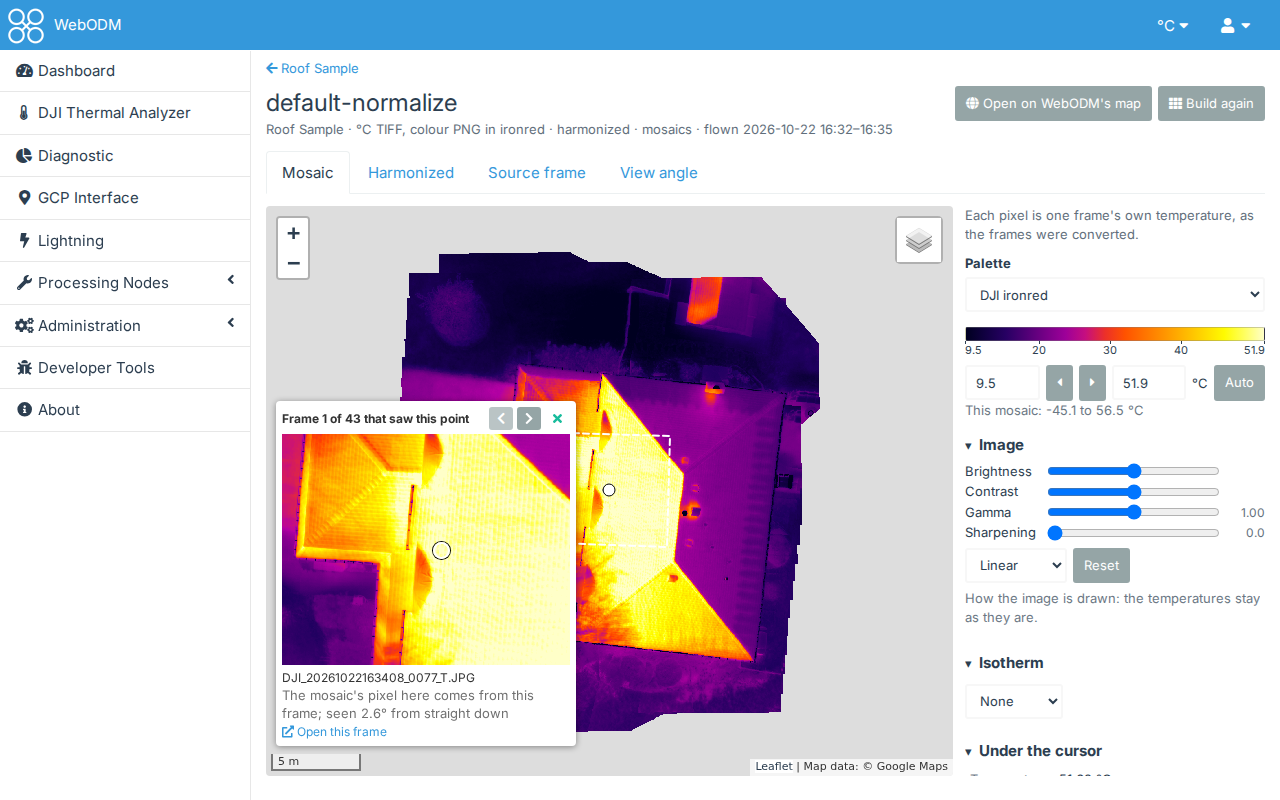
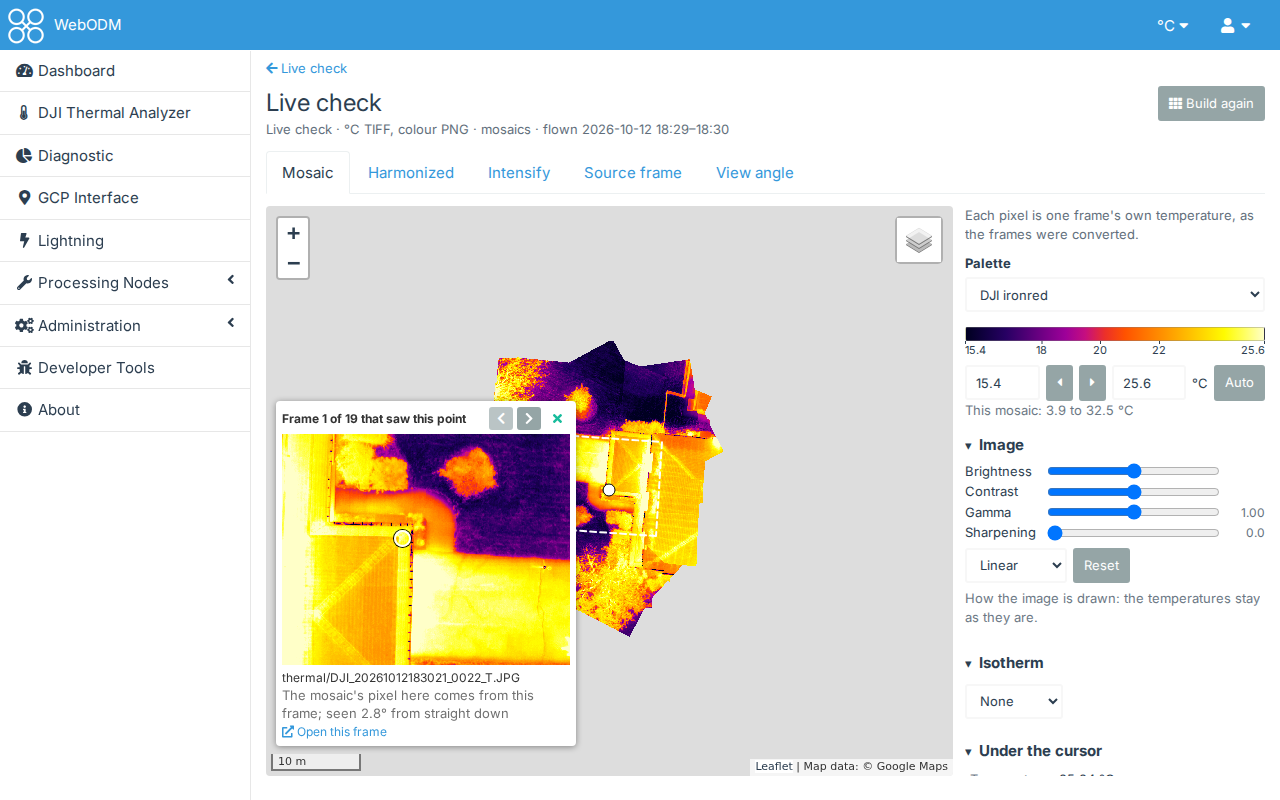
R4: Intensify documented, the mosaic viewer's screenshots retaken; plan: R4 built, R5 the Inspector's colour maps on 4.0.0
The README, the worksets quickstart, measurement.md (what normalize and harmonize change, and finding small
differences with Intensify), palettes.md, api.md and the developers' guide; mosaic-intensify.png is new.
R5: WebODM 4.0.0's tiler refuses hot, rainbow and gray_r, which the Inspector sends it.

diff --git a/dev/screenshots.js b/dev/screenshots.js
@@ -184,6 +184,15 @@ const SHOTS = {
         await hoverMap(p);
         return p;
     },
+    "mosaic-intensify": async (p, env) => {
+        // Built with the mosaics since Intensify exists: a workset whose mosaics were built before has no such tab
+        await openViewer(p, env);
+        await p.click('#ta-viewer-tabs a[data-tab="intensify"]');
+        await p.waitForSelector("#ta-viewer-map .leaflet-tile-loaded", {timeout: 60000});
+        await p.waitForTimeout(2000);
+        await hoverMap(p);
+        return p;
+    },
     "mosaic-frames": async (p, env) => {
         await openViewer(p, env);
         const box = await p.locator("#ta-viewer-map").boundingBox();

diff --git a/upcoming-changes.md b/upcoming-changes.md
@@ -3,7 +3,22 @@
 ## Phases (current and upcoming)
 
 **Up next**
-- **R4. Intensify: a mosaic tab of each pixel's difference from its surroundings** (the user, 2026-11-08, in the
+- **R5. Bug: on WebODM 4.0.0 the Thermal Inspector can't draw a thermal orthophoto in hot, rainbow or gray_r**
+  (found 2026-11-08 while building R4, in 1.1.0): with no Image adjustments, `inspector.js` `withPalette` sends a
+  WebODM colour map to WebODM's own tiles (`.../orthophoto/tiles/...?color_map=hot`), and 4.0.0's tiler no longer has
+  those three (the plugin carries them in `colormaps.json` for its own tiles only): WebODM answers 400 "Not a valid
+  color_map value" and the map shows nothing. 3.3.2 has them. Proposed fix: those three drawn by the plugin's
+  Inspector tiles, as DJI's palettes are (the `display` API names the colour maps WebODM's tiler lacks); a test, and
+  a check on both stacks.
+
+**Later**
+- **Kelvin on screen** (the user, 2026-11-07: dropped from the header unit, "we may decide to add it back later if
+  webodm adds more traditional Kelvin support"): only once WebODM's units offer it.
+- **Server-folder datasets** for administrators (photos read in place on the server), in the Analyzer; replaces
+  the earlier "Folder conversion" item (below).
+
+**Done**
+- **R4. Intensify: a mosaic tab of each pixel's difference from its surroundings** (built 2026-11-08; the user, 2026-11-08, in the
   session): "would it make sense to offer an \"Intensify\" option that actually makes temperature variances more
   distinct across the images? Example: I have a mosaic of a roof made from 10 images. Around pipe seams there's a
   temperature delta variance that's roughly 2-3 degrees cooler than the surrounding roof due to air seepage", then
@@ -31,14 +46,25 @@
   value); mosaics built before (proposed: the tab appears after "Build mosaics again", nothing built on its own).
   Decided (the user, 2026-11-08): the neighbourhood fixed at 2 m; a blue-white-red palette added, the tab's default
   (offered on the other tabs too); mosaics built before get the tab after "Build mosaics again".
+  Built, `r4-intensify`: `intensify.py` (`differences`: the medians of windows 2 m wide every metre, interpolated
+  between, numpy only; a 5000x5000 mosaic in about 2 s); `mosaics.intensified` writes `viewer/intensify.tif` from the
+  harmonized mosaic in the build, kept as `kinds.intensify` (`of: harmonized`, `size_m`; not in `KINDS`: not a
+  download, nor in the workset's Mosaics table); `TABS` and `DIFFERENCE_TABS`, `in_unit` (equalize, isotherm,
+  histogram), `point` gives `difference` and the harmonized `temperature`, `frame_values` the frame's own differences
+  (at its ground resolution, `height_m / focal_px`): that is the frames window over the map; the frame page itself
+  shows temperatures and doesn't offer the palette. The palette `bwr` in `colormaps.json`, listed with `saved: false`
+  (not a preference: `display_palettes` refuses it, so the viewer doesn't send it), not in the Thermal Inspector's
+  list (`palette_keys`). `viewer.js`: `isDifference`, `inUnit`, values shown and typed with `convertDelta`, the range
+  symmetric about 0, the report the harmonized mosaic's. Tests: Jest 301 (the tab, its unit, palette, isotherm,
+  readout), Django 213 on 4.0.0 and 3.3.2 (1 skipped; the synthetic roof, and the tab on a flight's mosaics). Live on
+  :8002 with 40 frames of the M4T flight (its own project, removed after): the tab after Harmonized, its range
+  -2.7 to 2.7 °C, the readout "+2.13 °C from its surroundings" with the temperature, the frames window, an isotherm
+  below -1. Docs: the README, `quickstart-worksets.md`, `measurement.md` (what normalize and harmonize change, and
+  "Finding small differences: Intensify", with `mosaic-intensify.png`), `palettes.md`, `api.md`, `developing.md`; the
+  mosaic viewer's screenshots retaken (from the live check's dataset: the user's worksets have mosaics built
+  before).
 
-**Later**
-- **Kelvin on screen** (the user, 2026-11-07: dropped from the header unit, "we may decide to add it back later if
-  webodm adds more traditional Kelvin support"): only once WebODM's units offer it.
-- **Server-folder datasets** for administrators (photos read in place on the server), in the Analyzer; replaces
-  the earlier "Folder conversion" item (below).
 
-**Done**
 - **R3. A link to WebODM's community Discord in the README** (built 2026-11-08; the user, 2026-11-08, from `new.md`): "Add a link
   near the bottom of the README to Join the WebODM Community Discord: https://discord.gg/hYDk9f28J". Builds on the
   README's end (Developing, Thanks, License). Proposed: a short section of its own, "Community", between Developing

diff --git a/docs/api.md b/docs/api.md
@@ -40,13 +40,13 @@ workset's id (12 hexadecimal characters).
 | POST | `.../conversions/<workset>/parent` | Sends the workset's TIFFs to the dataset's own task. |
 | GET, POST | `.../conversions/<workset>/mosaics` | The mosaics as the viewer shows them; builds them. A workset lists the mosaics built in its `mosaics` (`kind`, `frames`, `oblique`, `unusable`, `width`, `height`, `gsd_m`, `min` and `max` in `unit`, `normalization`, dji-thermal-cli's `report`, `preview`, and `files` with each one's `name` and `size`). |
 | GET | `.../mosaics/<kind>/preview` | A mosaic's preview as a small PNG (`as_converted` or `harmonized`; `?size=large` for the detail pane). |
-| GET | `.../mosaics/<tab>/tiles/<z>/<x>/<y>.png` | A map tile of a mosaic tab, over `rescale=min,max` in `color_map`, drawn with `gamma` (0.2 to 5), `sharpen` (0 to 5), and on temperatures `equalize=1` and `isotherm` (`above,T`, `below,T` or `between,A,B`, in the mosaic's unit: those pixels in the palette, the rest grey); the same for a frame's picture. |
+| GET | `.../mosaics/<tab>/tiles/<z>/<x>/<y>.png` | A map tile of a mosaic tab, over `rescale=min,max` in `color_map`, drawn with `gamma` (0.2 to 5), `sharpen` (0 to 5), and on temperatures (and `intensify`'s differences) `equalize=1` and `isotherm` (`above,T`, `below,T` or `between,A,B`, in the mosaic's unit: those pixels in the palette, the rest grey); the same for a frame's picture. |
 | POST | `.../mosaics/<tab>/region` | A temperature tab's statistics inside a GeoJSON polygon or along a line, in °C, as the Thermal Inspector's `region`; a line's profile also names each sample's source frame. |
 | GET | `.../mosaics/<tab>/isotherm/<z>/<x>/<y>.png?low=&high=&color=` | A temperature tab's isotherm tile, as the Thermal Inspector's `isotherm` (limits in °C). |
 | GET | `.../mosaics/<tab>/values/<z>/<x>/<y>.png` | The values (in the tab's unit) a tile is drawn from, for the browser to colour: a PNG whose red and green hold a 16-bit code (the value is `X-Values-Offset` + code × `X-Values-Step`), blue the source frames' seams (1 and 2), alpha where there are values, with `X-Values-Margin` more pixels on each side and the sharpening's sigma in `X-Sharpen-Sigma`. |
-| GET | `.../mosaics/<tab>/histogram` | A temperature tab's histogram (`counts`, `edges`), for the browser's equalization. |
+| GET | `.../mosaics/<tab>/histogram` | A temperature tab's histogram (`counts`, `edges`; `intensify`'s of its differences), for the browser's equalization. |
 | GET | `.../mosaics/<tab>/curve?rescale=&gamma=&equalize=` | How the tab's images are drawn, for the colour scale: the palette's share at 65 values evenly across the range. |
-| GET | `.../mosaics/<tab>/point?lon=&lat=` | The temperature, frame, frame pixel (the frame's column and row) and view angle at a point. |
+| GET | `.../mosaics/<tab>/point?lon=&lat=` | The temperature, frame, frame pixel (the frame's column and row) and view angle at a point; on `intensify`, also `difference` (the pixel's difference from its surroundings), with `temperature` the harmonized mosaic's. |
 | GET | `.../mosaics/<tab>/frames?lon=&lat=`, `.../frames/<index>.png` | The frames that saw a point; one frame's picture. |
 | GET | `.../conversions/<workset>/frames` | The frame page's list: the dataset's thermal frames (`path`, `time`, `pitch`, `converted`, `mosaic`: its place among the mosaics' frames or null), the workset's unit, whether it normalized or harmonized, the mosaics' pitch limit, the palettes and your default. |
 | GET | `.../conversions/<workset>/frame?frame=` | A frame measured as the workset converted it, or with `distance`, `humidity`, `emissivity`, `reflected_temp`, `ambient_temp` changed (temperatures in the workset's unit): its size, what the SDK measured with (`params`, °C), what the camera recorded, the distance's source, notes, the normalization's offset and its range, mean and histogram. |

diff --git a/README.md b/README.md
@@ -255,19 +255,28 @@ workset has done that while converting, so its mosaics are placed as Harmonize a
 (the mosaic's report says so), unless frames were removed from the workset since. **View mosaics** shows them on a map
 over WebODM's base layers:
 
-- a tab for each mosaic (**Mosaic**, as converted, and **Harmonized**), **Source frame** (the mosaic with a black and
-  white line where one frame meets the next) and **View angle** (the angle each pixel was seen at);
+- a tab for each mosaic (**Mosaic**, as converted, and **Harmonized**), **Intensify** (below), **Source frame** (the
+  mosaic with a black and white line where one frame meets the next) and **View angle** (the angle each pixel was seen
+  at);
+- **Intensify**: the harmonized mosaic, each pixel less the typical temperature around it (the median over about 2 m).
+  Slopes, the sun's side and gradients across a roof drop to about 0, so a narrow cooler or warmer feature (a seam
+  letting air in, a leak) stands out wherever it is, in its own palette, blue-white-red (blue below its
+  surroundings, red above), over a range centred on 0. Its numbers are differences, not temperatures, in your unit:
+  the readout gives the difference and the harmonized temperature, its isotherm takes differences (e.g. below -1.5),
+  and its frames are the frames' own differences. Anything 2 m wide or more fades out. The temperatures are not
+  changed: it is a view, not in the downloads nor the Thermal Inspector. Mosaics built before the plugin had it show
+  it once built again (**Build again**);
 - the palette (the usual ones and the DJI palettes of the images; opening in your preferred one, if they hold it) and the
   range, changed live, with the colour scale (its ends marked with the range's own values), **◀** and **▶** between
   its two fields (narrowing or widening it by a tenth, about its middle) and **Auto** (the 2nd to 98th percentile);
 - how the image is drawn (**Image**): **Brightness** and **Contrast** (which move and narrow the range), **Gamma**,
   **Sharpening** (an unsharp mask), **Linear** or **Equalized** (the colours spread over the temperatures the whole
-  mosaic has most of; temperatures only) and **Reset**, drawn into the tiles and the frames' pictures, with the colour
+  mosaic has most of; temperatures and Intensify's differences only) and **Reset**, drawn into the tiles and the frames' pictures, with the colour
   scale drawn to match; the temperatures stay as they are. The map follows the sliders, the range and the isotherm as
   they change, with no waiting: the browser colours each tile from its temperatures, which the server sends once (the
   frames' pictures are drawn again once a slider is let go of). The temperature tabs share them, and each visit starts
   without them;
-- an **Isotherm** on the temperature tabs (above, below or between temperatures): its pixels keep the palette and the
+- an **Isotherm** on the temperature tabs and Intensify (above, below or between temperatures, or differences): its pixels keep the palette and the
   rest turns grey, on the map and in the frames' pictures;
 - the temperature, frame, frame pixel and view angle under the cursor;
 - a click on the map keeps those values at that point, marked, until **Follow the cursor** (or Esc), and opens a

diff --git a/docs/developing.md b/docs/developing.md
@@ -27,6 +27,7 @@ Everything the plugin ships is in `dji-thermal/` (the plugin's id, and the relea
 | `analysis.py` | The analysis job: dji-thermal-cli's check and WebODM plan over a dataset's photos. |
 | `conversions.py` | Worksets: their settings (checked in `parse_settings`), the conversion job (`convert`), the outputs' names, the palettes (`palettes()`, `COLORMAPS`), and each user's saved defaults and display preferences. |
 | `mosaics.py` | A workset's mosaics: the build job (`make`), and what the mosaic viewer reads (tiles, values, palettes). |
+| `intensify.py` | Each pixel's difference from its surroundings (the median over about 2 m), for the mosaic viewer's Intensify tab. |
 | `colouring.py` | How tiles and frames are drawn: range, tone curve, equalization, sharpening, isotherm. |
 | `frames.py`, `frames_api.py` | The frame page: one frame as the workset measured it, or measured again with other values. |
 | `conversion_tasks.py` | A WebODM task made from a workset's temperature TIFFs. |
@@ -160,7 +161,9 @@ Each recipe lists every place a change touches. If you find another one, add it 
 ### A palette
 
 Palettes are DJI's (from dji-thermal-cli) and WebODM's colour maps (from WebODM's tiler). Every palette list (the
-Preferences dialog, the mosaic viewer, the frame page and the Thermal Inspector) is built from these two.
+Preferences dialog, the mosaic viewer, the frame page and the Thermal Inspector) is built from these two. The mosaic
+viewer also has its own palette for differences, `bwr` (`DIFFERENCE_PALETTE` in `mosaics.py`, its colours in
+`colormaps.json`), listed with `saved: false` because it can't be a user's palette.
 
 - **One of WebODM's colour maps**: add its name to `COLORMAPS` in `conversions.py`. `mosaics.palette_list` and
   `palette_keys` give it to the viewers, and the `display` API gives it to the Preferences dialog and the Inspector.
@@ -189,7 +192,11 @@ the downloads and the frame removal all see it.
 
 A new tab in the mosaic viewer (another band of the mosaic dji-thermal-cli writes) goes in `TABS` in `mosaics.py`.
 Its label and hint go in `TAB_LABELS` and `TAB_HINTS` in `viewer.js`. If it can be laid on WebODM's map, it also
-goes in `MAP_TABS` in `inspector_api.py` and `MOSAIC_TABS` in `inspector.js`.
+goes in `MAP_TABS` in `inspector_api.py` and `MOSAIC_TABS` in `inspector.js`. A tab made from a mosaic rather than
+read from it (as Intensify is, from the harmonized one) is written in `mosaics.build` beside the others' files in
+`viewer/` (see `mosaics.intensified`) with its own entry in the built `kinds`, which isn't in `KINDS` (not a
+download). A tab whose values are differences of temperatures goes in `DIFFERENCE_TABS` too, and is shown with
+`isDifference` in `viewer.js`: scaled into the user's unit, never shifted.
 
 ### A measuring tool
 

diff --git a/docs/measurement.md b/docs/measurement.md
@@ -69,6 +69,29 @@ has the same two (the task's photos are then converted by a workset of its datas
   overlaps as a mosaic does. It takes longer, and frames that can't be placed (oblique, or without a position) keep
   their drift. Ticking it ticks Normalize. The WebODM plan recommends it for processing into a map.
 
+Neither changes how much warmer or cooler a spot is than the ground beside it in the same frame: Normalize changes
+the two values every pixel of a frame is measured with, and Harmonize shifts a whole frame by one number (the frame's
+offset, kept in its results). They change a frame's absolute temperatures, by up to its offset, to make the frames
+agree. So they suit comparing areas across a flight; to check a spot against a fixed limit (such as "above 80 °C"),
+read it in a workset with neither, where each frame is measured as it recorded.
+
+## Finding small differences: Intensify
+
+A small difference (a seam 2 to 3 °C cooler than the roof around it, from air getting in) can be hard to see on a
+roof whose slopes and sides are at different temperatures: no single colour range suits all of it. The mosaic
+viewer's **Intensify** tab shows the harmonized mosaic with each pixel's difference from its surroundings, the median
+of the pixels around it over about 2 m. What is wider than that (a slope, the sun's side, a gradient) drops to about
+0; what is narrower keeps its difference: the seam reads -2 to -3 wherever it is on the roof. In blue-white-red over
+a range centred on 0, cooler features show blue and warmer ones red, and an isotherm below -1.5 picks out every spot
+1.5 degrees cooler than its surroundings.
+
+![The mosaic viewer's Intensify tab](images/mosaic-intensify.png)
+
+It is a view: the temperatures, the TIFFs and the downloads stay as they are, and the readout gives both the
+difference and the harmonized temperature. Something as wide as the neighbourhood or wider (a whole wet patch several
+metres across) fades out, and the edge between two surfaces at different temperatures shows a band of each colour
+along it. Mosaics built before the plugin had it show it once built again.
+
 ## Trying other values on one frame
 
 The frame page's **Measure again** measures one frame with other values for the distance, humidity, emissivity,

diff --git a/docs/quickstart-worksets.md b/docs/quickstart-worksets.md
@@ -91,6 +91,12 @@ The tabs:
 - **Harmonized**: the frames made to agree on temperature. The camera drifts a little between its
   self-calibrations, so overlapping frames can read a degree or two apart; here each frame is shifted to match its
   neighbours.
+- **Intensify**: the harmonized mosaic, each pixel less the typical temperature around it (the median over about
+  2 m). A roof's slopes, its sunny side and its gradients drop to about 0, so a narrow cooler or warmer feature, such
+  as a seam letting air in, stands out wherever it is: blue below its surroundings, red above, in its own palette
+  (blue-white-red) over a range centred on 0. Its numbers are differences, not temperatures; the readout gives the
+  difference and the harmonized temperature. Anything 2 m wide or more fades out. See
+  [Finding small differences](measurement.md#finding-small-differences-intensify).
 - **Source frame**: which frame each pixel comes from.
 - **View angle**: the angle each pixel was seen at.
 
@@ -101,7 +107,7 @@ cooler part of it (above 1) or the warmer part (below 1), **Sharpening** brings 
 colours over the temperatures the mosaic has most of, and **Reset** goes back to the Auto range with none of them.
 They only change how the image is drawn, never the temperatures, and the map follows them as they move: your browser
 colours the mosaic from its temperatures, so nothing waits on the server. An **Isotherm** (above, below or between
-temperatures) keeps the palette for the pixels in it and turns the rest grey. It shows the
+temperatures; on Intensify, differences) keeps the palette for the pixels in it and turns the rest grey. It shows the
 temperature, frame, frame pixel and view angle under the cursor, what dji-thermal-cli reports about the mosaic (seams,
 misalignment, frame offsets), and the files to download.
 

diff --git a/docs/palettes.md b/docs/palettes.md
@@ -16,7 +16,8 @@ It's used:
   workset's frames (its Files, the frame page) are drawn in the workset's own palette when it chose one;
 - in the DJI Thermal Task panel, where the palette the task's map opens in starts on yours (else on the one the
   photos were shot in);
-- in the mosaic viewer, where its temperature tabs open in it;
+- in the mosaic viewer, where its temperature tabs open in it (the Intensify tab opens in blue-white-red, a palette
+  of the mosaic viewer's own for differences, which isn't saved as yours);
 - on WebODM's map of a thermal task, where the Thermal Inspector draws DJI's palettes itself, over the range set in
   its colour scale or in WebODM's layer panel (the same range). Its Image section, as the mosaic viewer's, changes
   how the colours are shared out over that range.
